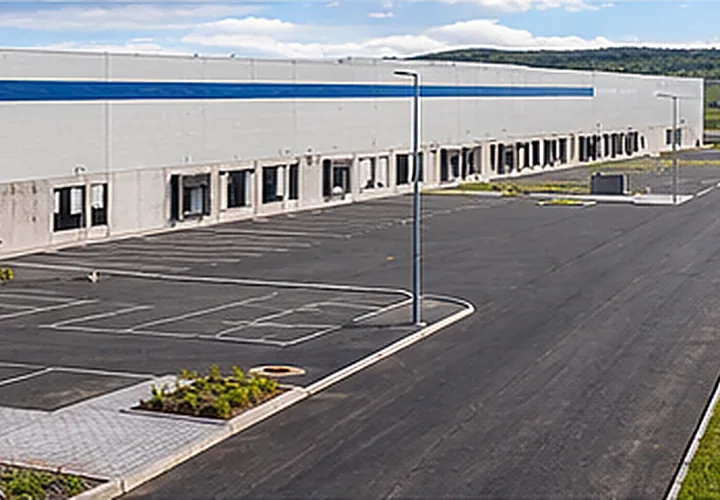
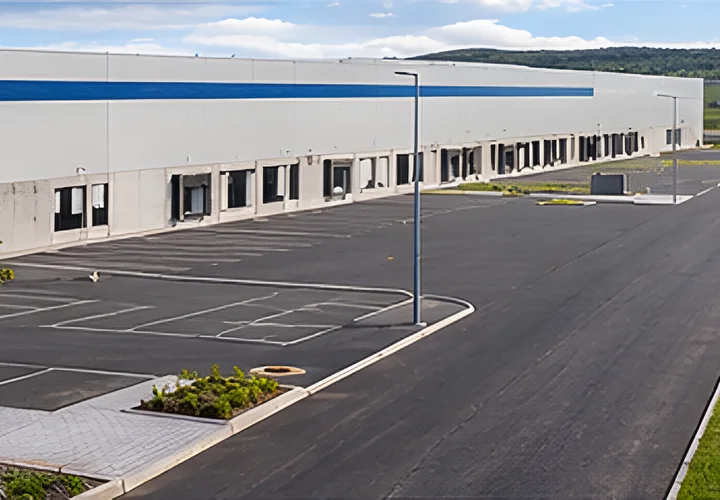
Forsíða: skarpari áfangamyndir í tvöfaldri upplausn
Myndirnar átta voru 1574 × 484 og óskýrar, sérstaklega á
háupplausnarskjám og í síma. Þær eru nú 3148 × 968, stækkaðar og
skerptar með Real-ESRGAN (meðaltal af x4plus á hálfstærð og x2plus
á upphaflegu stærðinni). Myndirnar á þjónustuspjöldunum eru skornar
úr skerptu myndunum, með sama skurði og áður.

- will-change tekið af myndborðanum svo myndirnar eru teiknaðar í
  réttri stærð í stað þess að vera kvarðaðar eftir á
- afangar.js tekur stærð myndanna af fyrstu myndinni í HTML
- útgáfunúmer á CSS og JS hækkað
- README lýsir nýju myndunum

Claude-Session: https://claude.ai/code/session_011RM41ZoDJCT8EG569AGMfo

diff --git a/en/index.html b/en/index.html
@@ -31,7 +31,7 @@
 <meta name="pb-pics" content="../img/afangar/">
 <link rel="preload" href="../fonts/archivo.woff" as="font" type="font/woff" crossorigin>
 <link rel="preload" href="../fonts/instrument-serif-italic.woff" as="font" type="font/woff" crossorigin>
-<link rel="stylesheet" href="../css/forsida.css?v=20261115c">
+<link rel="stylesheet" href="../css/forsida.css?v=20261115d">
 <link rel="preload" as="image" href="../img/afangar/afangi-1.webp" fetchpriority="high">
 </head>
 <body>
@@ -59,7 +59,7 @@
 <section class="story" id="story" aria-label="The site, layer by layer">
   <span id="top"></span>
   <div class="stage" id="stage">
-    <div class="pics" id="pics" aria-hidden="true"><img alt="" src="../img/afangar/afangi-1.webp" width="1574" height="484" decoding="async" fetchpriority="high"></div>
+    <div class="pics" id="pics" aria-hidden="true"><img alt="" src="../img/afangar/afangi-1.webp" width="3148" height="968" decoding="async" fetchpriority="high"></div>
     <div class="chapters">
       <article class="ch ch-hero" data-i="0">
         <p class="eyebrow">Groundwork in the Reykjavík area</p>
@@ -321,12 +321,12 @@
   </div>
 </footer>
 
-<script src="../js/vendor/gsap/gsap.min.js?v=20261115c"></script>
-<script src="../js/vendor/gsap/ScrollTrigger.min.js?v=20261115c"></script>
-<script src="../js/vendor/gsap/SplitText.min.js?v=20261115c"></script>
-<script src="../js/vendor/lenis/lenis.min.js?v=20261115c"></script>
-<script src="../js/forsida/page.js?v=20261115c"></script>
-<script src="../js/forsida/reiknivel.js?v=20261115c"></script>
-<script src="../js/forsida/afangar.js?v=20261115c"></script>
+<script src="../js/vendor/gsap/gsap.min.js?v=20261115d"></script>
+<script src="../js/vendor/gsap/ScrollTrigger.min.js?v=20261115d"></script>
+<script src="../js/vendor/gsap/SplitText.min.js?v=20261115d"></script>
+<script src="../js/vendor/lenis/lenis.min.js?v=20261115d"></script>
+<script src="../js/forsida/page.js?v=20261115d"></script>
+<script src="../js/forsida/reiknivel.js?v=20261115d"></script>
+<script src="../js/forsida/afangar.js?v=20261115d"></script>
 </body>
 </html>

diff --git a/index.html b/index.html
@@ -31,7 +31,7 @@
 <meta name="pb-pics" content="img/afangar/">
 <link rel="preload" href="fonts/archivo.woff" as="font" type="font/woff" crossorigin>
 <link rel="preload" href="fonts/instrument-serif-italic.woff" as="font" type="font/woff" crossorigin>
-<link rel="stylesheet" href="css/forsida.css?v=20261115c">
+<link rel="stylesheet" href="css/forsida.css?v=20261115d">
 <link rel="preload" as="image" href="img/afangar/afangi-1.webp" fetchpriority="high">
 </head>
 <body>
@@ -59,7 +59,7 @@
 <section class="story" id="story" aria-label="Lóðin, lag fyrir lag">
   <span id="top"></span>
   <div class="stage" id="stage">
-    <div class="pics" id="pics" aria-hidden="true"><img alt="" src="img/afangar/afangi-1.webp" width="1574" height="484" decoding="async" fetchpriority="high"></div>
+    <div class="pics" id="pics" aria-hidden="true"><img alt="" src="img/afangar/afangi-1.webp" width="3148" height="968" decoding="async" fetchpriority="high"></div>
     <div class="chapters">
       <article class="ch ch-hero" data-i="0">
         <p class="eyebrow">Jarðvinna á höfuðborgarsvæðinu</p>
@@ -321,12 +321,12 @@
   </div>
 </footer>
 
-<script src="js/vendor/gsap/gsap.min.js?v=20261115c"></script>
-<script src="js/vendor/gsap/ScrollTrigger.min.js?v=20261115c"></script>
-<script src="js/vendor/gsap/SplitText.min.js?v=20261115c"></script>
-<script src="js/vendor/lenis/lenis.min.js?v=20261115c"></script>
-<script src="js/forsida/page.js?v=20261115c"></script>
-<script src="js/forsida/reiknivel.js?v=20261115c"></script>
-<script src="js/forsida/afangar.js?v=20261115c"></script>
+<script src="js/vendor/gsap/gsap.min.js?v=20261115d"></script>
+<script src="js/vendor/gsap/ScrollTrigger.min.js?v=20261115d"></script>
+<script src="js/vendor/gsap/SplitText.min.js?v=20261115d"></script>
+<script src="js/vendor/lenis/lenis.min.js?v=20261115d"></script>
+<script src="js/forsida/page.js?v=20261115d"></script>
+<script src="js/forsida/reiknivel.js?v=20261115d"></script>
+<script src="js/forsida/afangar.js?v=20261115d"></script>
 </body>
 </html>

diff --git a/css/forsida.css b/css/forsida.css
@@ -122,7 +122,8 @@ html.intro-on body{overflow:hidden}
 /* the stage pictures: a wide band under the header, the chapter text as a caption below it; afangar.js wipes one picture into the next */
 .story-on .pics{display:block;position:absolute;left:0;right:0;top:var(--pics-top);bottom:var(--pics-bot);z-index:1;overflow:hidden;opacity:0;transition:opacity 1.2s var(--ease);-webkit-mask-image:linear-gradient(180deg,transparent 0,#000 8%,#000 84%,transparent 100%);mask-image:linear-gradient(180deg,transparent 0,#000 8%,#000 84%,transparent 100%)}
 .story-on .pics.in{opacity:1}
-.pics-in{position:absolute;inset:0;will-change:transform}
+/* no will-change here: a layer of its own is scaled after it is drawn, which softens the pictures */
+.pics-in{position:absolute;inset:0}
 .pics img{position:absolute;inset:0;width:100%;height:100%;object-fit:cover;object-position:60% 50%}
 html[data-theme="dark"] .pics img{filter:brightness(.88) saturate(.94)}
 .story-on .pics-note{display:block;position:absolute;right:max(40px,env(safe-area-inset-right,0px));bottom:calc(var(--pics-bot) + 8px);z-index:5;margin:0;font-size:.66rem;font-weight:650;font-stretch:78%;letter-spacing:.12em;text-transform:uppercase;color:var(--mute)}

diff --git a/js/forsida/afangar.js b/js/forsida/afangar.js
@@ -28,7 +28,8 @@
   var L = [first];
   for (var k = 1; k <= N; k++) {
     var im = document.createElement('img');
-    im.alt = ''; im.width = 1574; im.height = 484; im.decoding = 'async'; im.style.visibility = 'hidden';
+    im.alt = ''; im.width = +first.getAttribute('width') || 3148; im.height = +first.getAttribute('height') || 968;
+    im.decoding = 'async'; im.style.visibility = 'hidden';
     wrap.appendChild(im); L.push(im);
   }
   var ready = [];

diff --git a/README.md b/README.md
@@ -37,7 +37,8 @@ Sagan sýnir okkar hluta framkvæmdarinnar: allt sem húsið stendur á og allt 
 - Skrunið stýrir einni tölu, `t`, frá 0 upp í 7. Hver heil tala er einn kafli (`.ch` í `index.html`). Hver mynd stendur í sínum kafla og sú næsta strýkst inn yfir hana á milli kafla, frá vinstri til hægri.
 - Myndin er í breiðum borða undir hausnum og textinn hvers kafla er undir henni. Sjónarhornið líður hægt yfir myndina meðan skrunað er; í síma ferðast það yfir alla breiddina. `FOCUS` í `afangar.js` segir hvar verkið er á hverri mynd (hlutfall af breidd).
 - Ef gestur hefur beðið um minni hreyfingu í stýrikerfinu (prefers-reduced-motion) er engin hreyfing á myndunum og þær skiptast í miðju skrefi í stað þess að strjúkast inn.
-- Til að skipta um mynd: settu nýja skrá með sama nafni í `img/afangar/`. Myndirnar eru 1574 × 484 dílar; stærri myndir í sama hlutfalli (t.d. 3148 × 968) verða skarpari á háupplausnarskjám.
+- Myndirnar eru 3148 × 968 dílar. Upphaflegu myndirnar voru 1574 × 484 og nokkuð óskýrar, svo þær voru stækkaðar tvöfalt og skerptar með Real-ESRGAN (meðaltal af `RealESRGAN_x4plus` á hálfstærð og `RealESRGAN_x2plus` á upphaflegu stærðinni). Myndirnar á þjónustuspjöldunum eru skornar úr skerptu myndunum.
+- Til að skipta um mynd: settu nýja skrá með sama nafni í `img/afangar/`, helst 3148 × 968 dílar eða önnur stærð í sama hlutfalli (3,25 : 1).
 - Myndirnar eru tölvugerðar skýringarmyndir, ekki ljósmyndir af verkum P. Blöndal, og það stendur smátt neðst á myndborðanum.
 - `?nosnap` aftan við slóðina opnar prófunarkrók (`window.__pbDev`) sem er notaður við skjámyndatöku.
 
